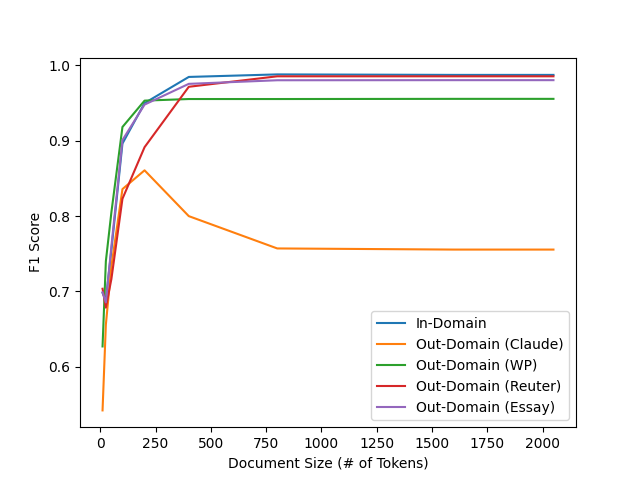
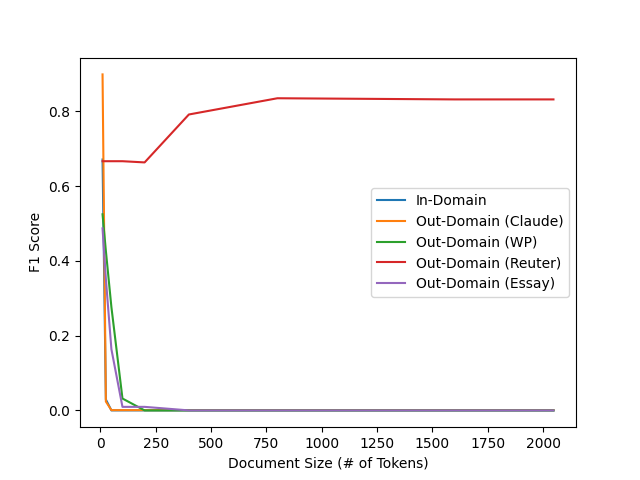
Perturbation Experiments

diff --git a/generate.py b/generate.py
@@ -3,8 +3,11 @@ import openai
 import re
 import tqdm
 import os
-from datasets import load_dataset
+import math
+import nltk
+import numpy as np
 
+from datasets import load_dataset
 from nltk.tokenize.treebank import TreebankWordDetokenizer
 from tenacity import (
     retry,
@@ -15,6 +18,16 @@ from utils.generate import generate_documents
 from utils.write_logprobs import write_logprobs
 from utils.symbolic import convert_file_to_logprob_file
 from utils.load import Dataset, get_generate_dataset
+
+datasets = [
+    Dataset("normal", "data/wp/human"),
+    Dataset("normal", "data/wp/gpt"),
+    Dataset("author", "data/reuter/human"),
+    Dataset("author", "data/reuter/gpt"),
+    Dataset("normal", "data/essay/human"),
+    Dataset("normal", "data/essay/gpt"),
+]
+generate_dataset_fn = get_generate_dataset(*datasets)
 
 prompt_types = ["gpt", "gpt_prompt1", "gpt_prompt2", "gpt_writing", "gpt_semantic"]
 html_replacements = [
@@ -74,10 +87,71 @@ def get_essay_prompts(words, prompts):
     ]
 
 
+def perturb_letter(doc, n=1):
+    """
+    Randomly swap n pairs of adjacent letters in the document
+    """
+    if len(doc) < 2:
+        return doc
+
+    for _ in range(n):
+        idx = np.random.randint(len(doc) - 1)
+        doc = doc[:idx] + doc[idx + 1] + doc[idx] + doc[idx + 2 :]
+    return doc
+
+
+def perturb_word(doc, n=1):
+    """
+    Randomly swap n pairs of adjacent words in the document
+    """
+    doc = doc.split(" ")
+    if len(doc) < 2:
+        return " ".join(doc)
+
+    for _ in range(n):
+        idx = np.random.randint(len(doc) - 1)
+        doc[idx], doc[idx + 1] = doc[idx + 1], doc[idx]
+    return " ".join(doc)
+
+
+def petrub_sent(doc, n=1):
+    """
+    Randomly swap n pairs of adjacent sentences in the document
+    """
+    doc = nltk.sent_tokenize(doc)
+    if len(doc) < 2:
+        return (" ".join(doc)).strip()
+
+    for _ in range(n):
+        # Account for the fact that some sentences have new lines in them, so keep them where they were
+        idx = np.random.randint(len(doc) - 1)
+        doc[idx], doc[idx + 1] = doc[idx + 1], doc[idx]
+
+    return (" ".join(doc)).strip()
+
+
+def perturb_para(doc, n=1):
+    """
+    Randomly swap n pairs of adjacent paragraphs in the document
+    """
+    doc = doc.split("\n")
+    if len(doc) < 2:
+        return "\n".join(doc)
+
+    for _ in range(n):
+        idx = np.random.randint(len(doc) - 1)
+        doc[idx], doc[idx + 1] = doc[idx + 1], doc[idx]
+    return "\n".join(doc)
+
+
 def generate_logprobs(generate_dataset_fn):
     files = generate_dataset_fn(lambda f: f)
 
     for file in tqdm.tqdm(files):
+        base_path = os.path.dirname(file) + "/logprobs"
+        if not os.path.exists(base_path):
+            os.mkdir(base_path)
+
         with open(file, "r") as f:
             doc = f.read().strip()
 
@@ -92,6 +166,9 @@ def generate_logprobs(generate_dataset_fn):
 
 if __name__ == "__main__":
     parser = argparse.ArgumentParser()
+
+    parser.add_argument("--seed", type=int, default=0)
+
     parser.add_argument("--wp_prompts", action="store_true")
     parser.add_argument("--wp_human", action="store_true")
     parser.add_argument("--wp_gpt", action="store_true")
@@ -105,6 +182,9 @@ if __name__ == "__main__":
 
     parser.add_argument("--logprobs", action="store_true")
     parser.add_argument("--logprob_other", action="store_true")
+
+    parser.add_argument("--gen_perturb", action="store_true")
+    parser.add_argument("--logprob_perturb", action="store_true")
 
     args = parser.parse_args()
 
@@ -524,3 +604,69 @@ if __name__ == "__main__":
         ]
 
         generate_logprobs(get_generate_dataset(*other_datasets))
+
+    if args.gen_perturb:
+        perturb_fns = {
+            "letter": perturb_letter,
+            "word": perturb_word,
+            "sentences": petrub_sent,
+            "paragraphs": perturb_para,
+        }
+
+        if not os.path.exists("data/perturb"):
+            os.makedirs("data/perturb")
+
+        np.random.seed(args.seed)
+        # Construct the test/train split. Seed of 0 ensures seriality across
+        # all files performing the same split.
+        indices = np.arange(6000)
+        np.random.shuffle(indices)
+
+        train, test = (
+            indices[: math.floor(0.8 * len(indices))],
+            indices[math.floor(0.8 * len(indices)) :],
+        )
+
+        # [4320 2006 5689 ... 4256 5807 4875] [5378 5980 5395 ... 1653 2607 2732]
+        print("Train/Test Split:", train, test)
+        files = generate_dataset_fn(lambda f: f, verbose=False)
+
+        indices = np.arange(len(test))
+        np.random.shuffle(indices)
+        indices = indices[:200]
+
+        labels = []
+        for file in files[test][indices]:
+            if "human" in file and "gpt" not in file:
+                labels.append(0)
+            elif "gpt" in file and "human" not in file:
+                labels.append(1)
+            else:
+                raise ValueError("Invalid file name")
+
+        with open("data/perturb/labels.txt", "w") as f:
+            f.write("\n".join([str(i) for i in labels]))
+
+        # Generate the perturbed documents
+        num_perturb = [0, 10, 25, 50, 100, 200]
+        for n in tqdm.tqdm(num_perturb):
+            for perturb_type, func in perturb_fns.items():
+                if not os.path.exists(f"data/perturb/{perturb_type}/{n}"):
+                    os.makedirs(f"data/perturb/{perturb_type}/{n}")
+
+                for idx, file in enumerate(files[test][indices]):
+                    with open(file, "r") as f:
+                        doc = f.read().strip()
+
+                    perturb_doc = func(doc, n=n)
+                    with open(f"data/perturb/{perturb_type}/{n}/{idx}.txt", "w") as f:
+                        f.write(perturb_doc)
+
+    if args.logprob_perturb:
+        perturb_datasets = [
+            Dataset("normal", f"data/perturb/{perturb_type}/{n}")
+            for perturb_type in ["letter", "word", "sentences", "paragraphs"]
+            for n in [0, 10, 25, 50, 100, 200]
+        ]
+
+        generate_logprobs(get_generate_dataset(*perturb_datasets))

diff --git a/run.py b/run.py
@@ -3,6 +3,7 @@ import csv
 import itertools
 import math
 import os
+from collections import defaultdict
 
 # External Imports
 import argparse
@@ -164,6 +165,8 @@ if __name__ == "__main__":
     parser.add_argument("--ghostbuster_vary_document_size", action="store_true")
 
     parser.add_argument("--hyperparameter_search", action="store_true")
+
+    parser.add_argument("--perturb", action="store_true")
 
     parser.add_argument("--seed", type=int, default=0)
     parser.add_argument("--output_file", type=str, default="results.csv")
@@ -332,7 +335,7 @@ if __name__ == "__main__":
                         + indices_dict[f"human_{domain}_train"],
                         indices_dict[f"gpt_{domain}_test"]
                         + indices_dict[f"human_{domain}_test"],
-                        domain,
+                        "gpt",
                     ),
                 ]
             )
@@ -383,7 +386,6 @@ if __name__ == "__main__":
 
         for domain in eval_domains:
             curr_test_indices = list(indices_dict[f"{domain}_test"]) + test_indices
-            # test_indices += list(indices_dict["claude_test"])
 
             results_table.append(
                 [
@@ -753,7 +755,7 @@ if __name__ == "__main__":
         )
 
         scores = []
-        train_sizes = [int(125 * (2**i)) for i in range(7)] + [len(train_indices)]
+        train_sizes = [int(125 * (2**i)) for i in range(6)] + [len(train_indices)]
         print(train_sizes)
 
         for size in tqdm.tqdm(train_sizes):
@@ -834,7 +836,7 @@ if __name__ == "__main__":
         plt.savefig("results/training_size.png")
 
     if args.ghostbuster_vary_document_size:
-        token_sizes = [10, 25, 50, 100, 200, 400, 800, 1600, 2049]
+        token_sizes = [10, 25, 50, 100, 200, 400, 800, 1600, 2047]
         scores = []
 
         train_indices = indices_dict["gpt_train"] + indices_dict["human_train"]
@@ -977,6 +979,78 @@ if __name__ == "__main__":
 
         probs = model.predict_proba(data[test])[:, 1]
         print(get_scores(labels[test], probs))
+
+    if args.perturb:
+        data = get_featurized_data(best_features_map["best_features_three"])
+        data, mu, sigma = normalize(data, ret_mu_sigma=True)
+
+        model = LogisticRegression()
+        model.fit(
+            data[indices_dict["gpt_train"] + indices_dict["human_train"]],
+            labels[indices_dict["gpt_train"] + indices_dict["human_train"]],
+        )
+
+        with open("data/perturb/labels.txt") as f:
+            perturb_labels = np.array([int(i) for i in f.read().split("\n")])
+
+        def get_data(generate_dataset_fn, best_features):
+            t_data = generate_dataset_fn(t_featurize, verbose=False)
+
+            davinci, ada, trigram, unigram = get_all_logprobs(
+                generate_dataset_fn,
+                trigram=trigram_model,
+                tokenizer=tokenizer,
+                verbose=False,
+            )
+            vector_map = {
+                "davinci-logprobs": lambda file: davinci[file],
+                "ada-logprobs": lambda file: ada[file],
+                "trigram-logprobs": lambda file: trigram[file],
+                "unigram-logprobs": lambda file: unigram[file],
+            }
+            exp_featurize = get_exp_featurize(best_features, vector_map)
+            exp_data = generate_dataset_fn(exp_featurize, verbose=False)
+
+            return np.concatenate([t_data, exp_data], axis=1)
+
+        data = defaultdict(list)
+        files = generate_dataset_fn_gpt(lambda x: x)
+
+        for perturb_type in tqdm.tqdm(["letter", "word", "sentences", "paragraphs"]):
+            for n in [0, 10, 25, 50, 100, 200]:
+                gen_fn = get_generate_dataset(
+                    Dataset("normal", f"data/perturb/{perturb_type}/{n}")
+                )
+                curr_labels = gen_fn(
+                    lambda file: perturb_labels[
+                        int(os.path.basename(file).split(".")[0])
+                    ]
+                )
+
+                curr_data = get_data(gen_fn, best_features_map["best_features_three"])
+                curr_data = (curr_data - mu) / sigma
+
+                probs = model.predict_proba(curr_data)[:, 1]
+
+                results_table.append(
+                    [
+                        "Ghostbuster",
+                        f"Out-Domain ({perturb_type}, {n})",
+                        *get_scores(curr_labels, probs),
+                    ]
+                )
+
+                _, f1, _ = get_scores(curr_labels, probs)
+                data[perturb_type].append(f1)
+
+        plt.plot([0, 10, 25, 50, 100, 200], data["letter"], label="Letter")
+        plt.plot([0, 10, 25, 50, 100, 200], data["word"], label="Word")
+        plt.plot([0, 10, 25, 50, 100, 200], data["sentences"], label="Sentence")
+        plt.plot([0, 10, 25, 50, 100, 200], data["paragraphs"], label="Paragraph")
+        plt.xlabel("Number of Perturbations")
+        plt.ylabel("F1 Score")
+        plt.legend()
+        plt.savefig("results/perturb.png")
 
     if len(results_table) > 1:
         # Write data to output csv file
